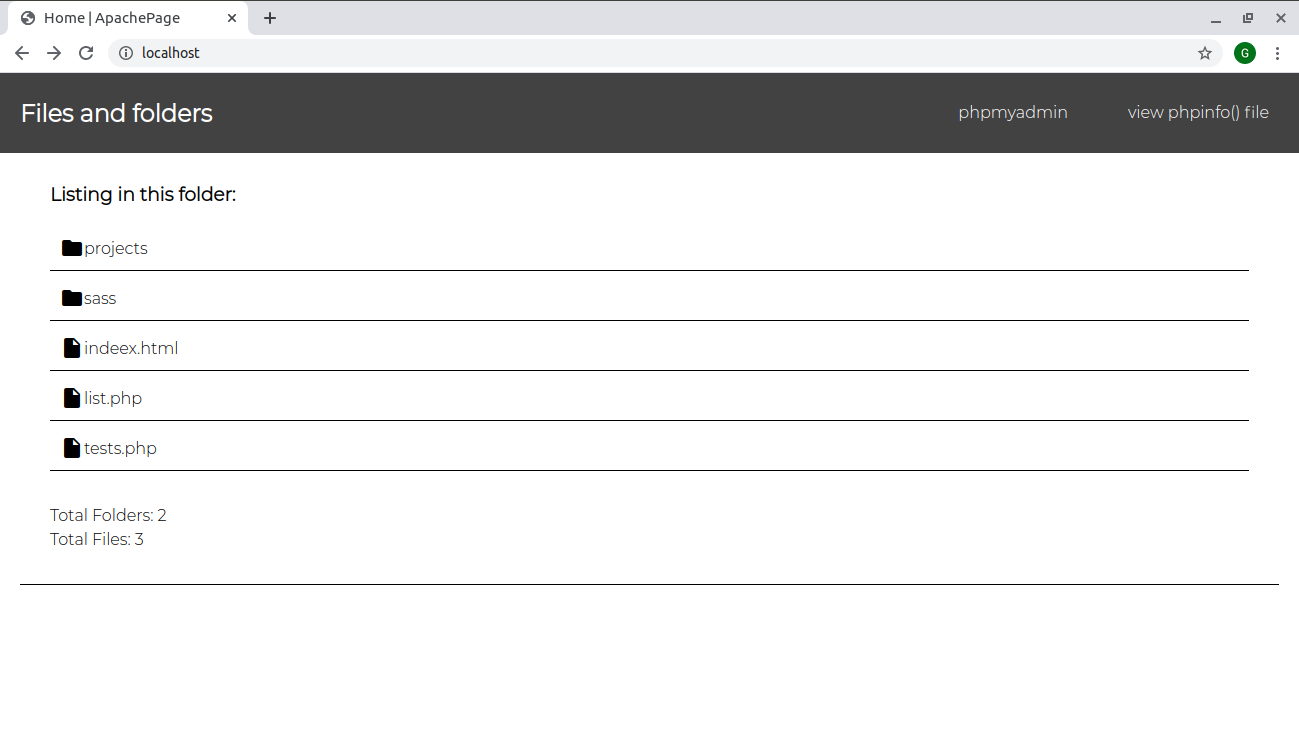
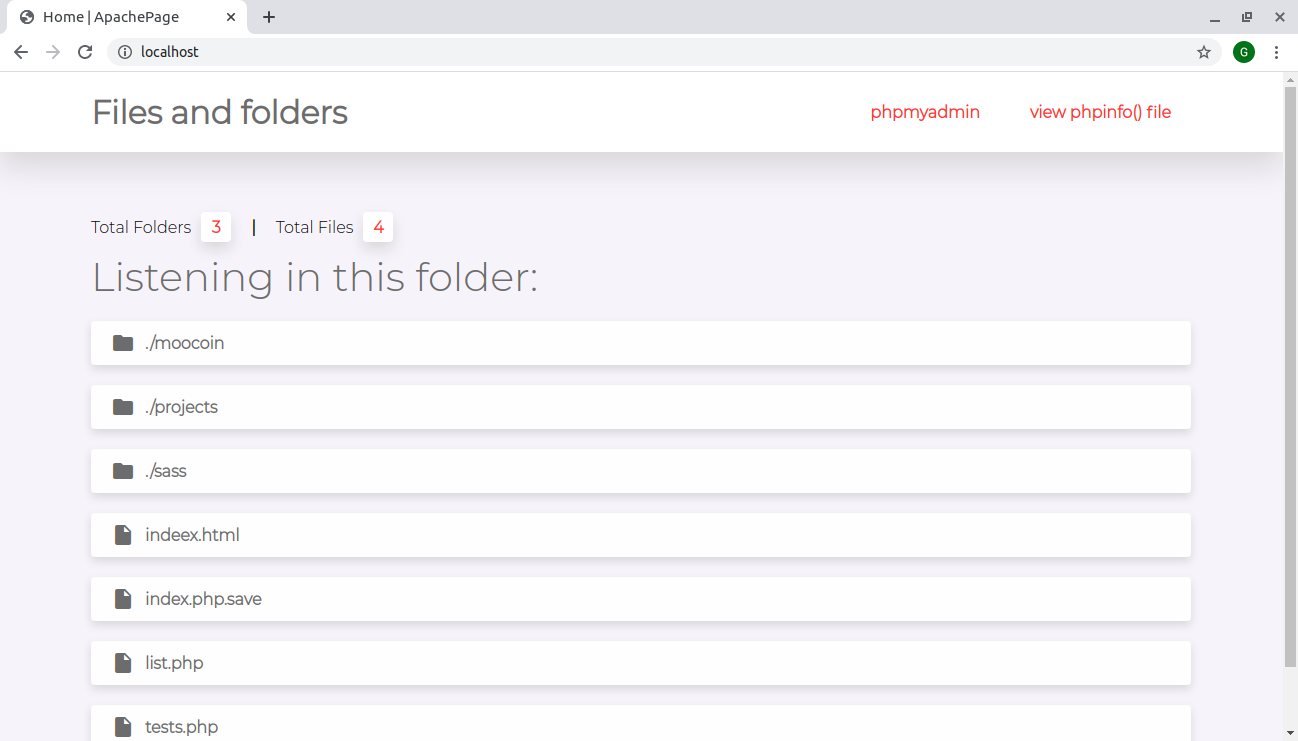
Image updated and a little bug that are showing this image in list fixed

diff --git a/index.php b/index.php
@@ -12,6 +12,7 @@ while ($arquivo = $diretorio->read()):
         $arquivo != 'phpinfo.php' &&
         $arquivo != 'README.md' &&
         $arquivo != '.git' &&
+        $arquivo != 'ApachePage.png' &&
         $arquivo != '.gitignore'
     ) {
         if (count(explode('.', $arquivo)) > 1) {
@@ -204,7 +205,7 @@ ksort($datafiles);
                         <li class="filesystem__item">
                             <a class="filesystem__link" href="<?= $folder ?>" target="_blank">
                                 <i class="material-icons">folder</i>
-                                <span><?= $folder ?></span>
+                                <span>./<?= $folder ?></span>
                             </a>
                         </li>
                     <?php endforeach; ?>
